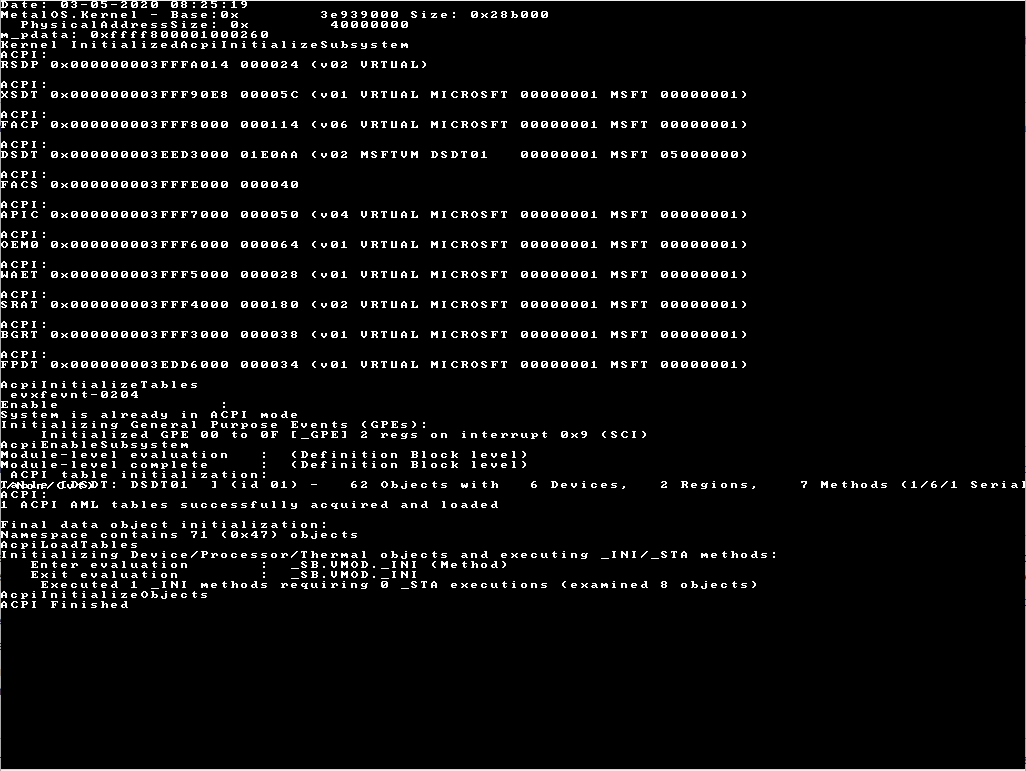
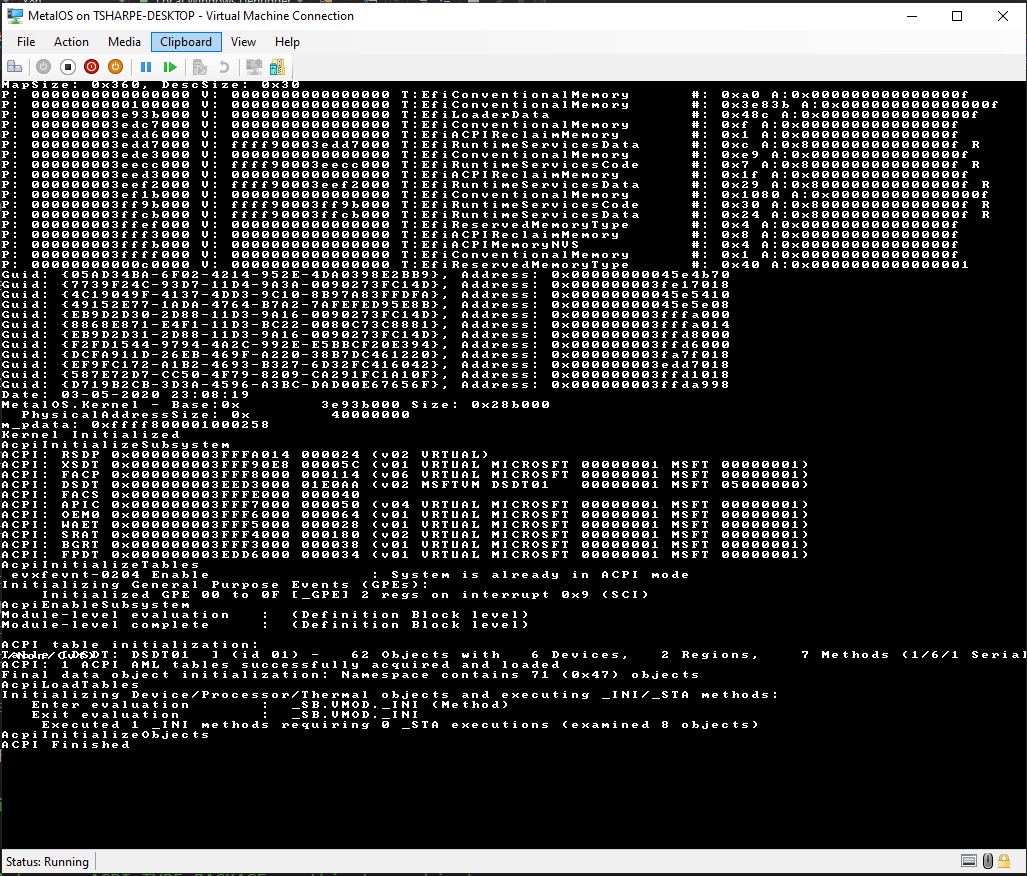
Fixed up printing

diff --git a/MetalOS.Kernel/Kernel.cpp b/MetalOS.Kernel/Kernel.cpp
@@ -49,11 +49,11 @@ void Kernel::Initialize(const PLOADER_PARAMS params)
 	m_pMemoryMap = new MemoryMap(params->MemoryMapSize, params->MemoryMapDescriptorSize, params->MemoryMapDescriptorVersion, params->MemoryMap);
 	m_pMemoryMap->ReclaimBootPages();
 	m_pMemoryMap->MergeConventionalPages();
-	//m_pMemoryMap->DumpMemoryMap();
+	m_pMemoryMap->DumpMemoryMap();
 
 	//Config Tables
 	m_pConfigTables = new ConfigTables(params->ConfigTables, params->ConfigTableSizes);
-	//m_pConfigTables->Dump();
+	m_pConfigTables->Dump();
 
 	//Initialize page table pool
 	m_pPagePool = new PageTablesPool(KernelPageTablesPoolAddress, params->PageTablesPoolAddress, params->PageTablesPoolPageCount);
@@ -94,9 +94,9 @@ void Kernel::Initialize(const PLOADER_PARAMS params)
 	//__debugbreak();
 	//__debugbreak();
 
-	Print("MetalOS.Kernel - Base:0x%16x Size: 0x%x", m_physicalAddress, m_imageSize);
+	Print("MetalOS.Kernel - Base:0x%16x Size: 0x%x\n", m_physicalAddress, m_imageSize);
 	//Print("ConfigTableSizes: %d", loader->ConfigTableSizes);
-	Print("  PhysicalAddressSize: 0x%16x", m_pMemoryMap->GetPhysicalAddressSize());
+	Print("  PhysicalAddressSize: 0x%16x\n", m_pMemoryMap->GetPhysicalAddressSize());
 	//Print("  PageTablesPool.AllocatedPageCount: 0x%8x", m_pPagePool->AllocatedPageCount());
 
 	//Complete initialization
@@ -104,24 +104,24 @@ void Kernel::Initialize(const PLOADER_PARAMS params)
 
 	m_pdata = GetKernelSection(".pdata");
 
-	Print("m_pdata: 0x%16x", (uintptr_t)m_pdata);
+	Print("m_pdata: 0x%16x\n", (uintptr_t)m_pdata);
 
-	m_pLoading->WriteText("Kernel Initialized");
+	Print("Kernel Initialized\n");
 }
 
 void Kernel::HandleInterrupt(size_t vector, PINTERRUPT_FRAME pFrame)
 {
 	__halt();
 	
-	m_pLoading->WriteLineFormat("ISR: %d, Code: %d, RBP: 0x%16x, RIP: 0x%16x, RSP: 0x%16x", vector, pFrame->ErrorCode, pFrame->RBP, pFrame->RIP, pFrame->RSP);
-	m_pLoading->WriteLineFormat("  RAX: 0x%16x, RBX: 0x%16x, RCX: 0x%16x, RDX: 0x%16x", pFrame->RAX, pFrame->RBX, pFrame->RCX, pFrame->RDX);
+	m_pLoading->WriteLine("ISR: %d, Code: %d, RBP: 0x%16x, RIP: 0x%16x, RSP: 0x%16x\n", vector, pFrame->ErrorCode, pFrame->RBP, pFrame->RIP, pFrame->RSP);
+	m_pLoading->WriteLine("  RAX: 0x%16x, RBX: 0x%16x, RCX: 0x%16x, RDX: 0x%16x\n", pFrame->RAX, pFrame->RBX, pFrame->RCX, pFrame->RDX);
 	switch (vector)
 	{
 	//Let debug continue (we use this to check ISRs on bootup)
 	case 3:
 		return;
 	case 14:
-		m_pLoading->WriteLineFormat("CR2: 0x%16x", __readcr2());
+		m_pLoading->WriteLine("CR2: 0x%16x\n", __readcr2());
 	}
 
 	//shitty stalk walk
@@ -148,13 +148,13 @@ void Kernel::Print(const char* format, ...)
 	va_list args;
 
 	va_start(args, format);
-	m_pLoading->WriteLineFormat(format, args);
+	m_pLoading->Write(format, args);
 	va_end(args);
 }
 
 void Kernel::Print(const char* format, va_list args)
 {
-	m_pLoading->WriteLineFormat(format, args);
+	m_pLoading->Write(format, args);
 }
 
 PIMAGE_SECTION_HEADER Kernel::GetKernelSection(const std::string& name)

diff --git a/MetalOS.Kernel/LoadingScreen.cpp b/MetalOS.Kernel/LoadingScreen.cpp
@@ -12,30 +12,44 @@ LoadingScreen::LoadingScreen(Display& display) : m_display(display), m_fontScale
 	m_position = { 0 };
 }
 
-void LoadingScreen::WriteLineFormat(const char* format, ...)
+void LoadingScreen::WriteLine(const char* format, ...)
 {
 	va_list args;
 
 	va_start(args, format);
-	this->WriteLineFormat(format, args);
+	this->WriteLine(format, args);
 	va_end(args);
 }
 
-void LoadingScreen::WriteLineFormat(const char* format, va_list args)
+void LoadingScreen::WriteLine(const char* format, va_list args)
 {
 	char buffer[255];
 
 	int retval = crt_vsprintf(buffer, format, args);
 	buffer[retval] = '\0';
 
-	WriteLine(buffer);
-}
-
-void LoadingScreen::WriteLine(const char* s)
-{
-	LoadingScreen::WriteText(s);
+	this->WriteText(buffer);
 	AdvanceY();
 	ResetX();
+}
+
+void LoadingScreen::Write(const char* format, ...)
+{
+	va_list args;
+
+	va_start(args, format);
+	this->Write(format, args);
+	va_end(args);
+}
+
+void LoadingScreen::Write(const char* format, va_list args)
+{
+	char buffer[255];
+
+	int retval = crt_vsprintf(buffer, format, args);
+	buffer[retval] = '\0';
+
+	this->WriteText(buffer);
 }
 
 void LoadingScreen::WriteText(const char* text)
@@ -44,8 +58,16 @@ void LoadingScreen::WriteText(const char* text)
 
 	while (*text != '\0')
 	{
-		WriteCharacter(*text);
-		AdvanceX();
+		if (*text == '\n')
+		{
+			AdvanceY();
+			ResetX();
+		}
+		else if (*text != '\r')
+		{
+			WriteCharacter(*text);
+			AdvanceX();
+		}
 
 		text++;
 	}

diff --git a/MetalOS.Kernel/Main.cpp b/MetalOS.Kernel/Main.cpp
@@ -100,7 +100,7 @@ void main(LOADER_PARAMS* loader)
 		Print("Could not AcpiInitializeSubsystem: %d\n", Status);
 		__halt();
 	}
-	Print("AcpiInitializeSubsystem");
+	Print("AcpiInitializeSubsystem\n");
 
 	Status = AcpiInitializeTables(nullptr, 0, FALSE);
 	if (ACPI_FAILURE(Status))
@@ -108,7 +108,7 @@ void main(LOADER_PARAMS* loader)
 		Print("Could not AcpiInitializeTables: %d\n", Status);
 		__halt();
 	}
-	Print("AcpiInitializeTables");
+	Print("AcpiInitializeTables\n");
 
 	//TODO: notify handlers
 
@@ -118,7 +118,7 @@ void main(LOADER_PARAMS* loader)
 		Print("Could not AcpiEnableSubsystem: %d\n", Status);
 		__halt();
 	}
-	Print("AcpiEnableSubsystem");
+	Print("AcpiEnableSubsystem\n");
 
 	Status = AcpiLoadTables();
 	if (ACPI_FAILURE(Status))
@@ -126,7 +126,7 @@ void main(LOADER_PARAMS* loader)
 		Print("Could not AcpiEnableSubsystem: %d\n", Status);
 		__halt();
 	}
-	Print("AcpiLoadTables");
+	Print("AcpiLoadTables\n");
 
 	Status = AcpiInitializeObjects(ACPI_FULL_INITIALIZATION);
 	if (ACPI_FAILURE(Status))
@@ -134,8 +134,8 @@ void main(LOADER_PARAMS* loader)
 		Print("Could not AcpiEnableSubsystem: %d\n", Status);
 		__halt();
 	}
-	Print("AcpiInitializeObjects");
-	Print("ACPI Finished");
+	Print("AcpiInitializeObjects\n");
+	Print("ACPI Finished\n");
 
 	//System system(loader->ConfigTables, loader->ConfigTableSizes);
 	//system.GetInstalledSystemRam();

diff --git a/MetalOS.Kernel/MemoryMap.cpp b/MetalOS.Kernel/MemoryMap.cpp
@@ -122,14 +122,14 @@ bool MemoryMap::AddressFree(EFI_PHYSICAL_ADDRESS address)
 
 void MemoryMap::DumpMemoryMap()
 {
-	Print("MapSize: 0x%x, DescSize: 0x%x", m_memoryMapSize, m_memoryMapDescriptorSize);
+	Print("MapSize: 0x%x, DescSize: 0x%x\n", m_memoryMapSize, m_memoryMapDescriptorSize);
 	EFI_MEMORY_DESCRIPTOR* current;
 	for (current = m_memoryMap;
 		current < NextMemoryDescriptor(m_memoryMap, m_memoryMapSize);
 		current = NextMemoryDescriptor(current, m_memoryMapDescriptorSize))
 	{
 		const bool runtime = (current->Attribute & EFI_MEMORY_RUNTIME) != 0;
-		Print("P: %016x V: %016x T:%s #: 0x%x A:0x%016x %c", current->PhysicalStart, current->VirtualStart, (*MemTypes)[current->Type], current->NumberOfPages, current->Attribute, runtime ? 'R' : ' ');
+		Print("P: %016x V: %016x T:%s #: 0x%x A:0x%016x %c\n", current->PhysicalStart, current->VirtualStart, (*MemTypes)[current->Type], current->NumberOfPages, current->Attribute, runtime ? 'R' : ' ');
 	}
 }
 

diff --git a/MetalOS.Kernel/LoadingScreen.h b/MetalOS.Kernel/LoadingScreen.h
@@ -8,10 +8,11 @@ class LoadingScreen
 public:
 	LoadingScreen(Display& display);
 
-	void WriteLineFormat(const char* format, ...);
-	void WriteLineFormat(const char* format, va_list args);
-	void WriteLine(const char* s);
-	void WriteText(const char* text);
+	void WriteLine(const char* format, ...);
+	void WriteLine(const char* format, va_list args);
+	void Write(const char* format, ...);
+	void Write(const char* format, va_list args);
+
 	void WriteCharacter(char c);
 
 	void AdvanceX();
@@ -20,6 +21,8 @@ public:
 	void ResetY();
 
 private:
+	void WriteText(const char* text);
+
 	const uint8_t m_fontScale;
 	static const Color m_white;
 	Point2D m_position;

diff --git a/MetalOS.Kernel/ConfigTables.cpp b/MetalOS.Kernel/ConfigTables.cpp
@@ -47,7 +47,7 @@ void ConfigTables::Dump()
 		const EFI_GUID guid = m_tables[i].VendorGuid;
 		const void* address = m_tables[i].VendorTable;
 
-		Print("Guid: {%08lX-%04hX-%04hX-%02hhX%02hhX-%02hhX%02hhX%02hhX%02hhX%02hhX%02hhX}, Address: 0x%016x",
+		Print("Guid: {%08lX-%04hX-%04hX-%02hhX%02hhX-%02hhX%02hhX%02hhX%02hhX%02hhX%02hhX}, Address: 0x%016x\n",
 			guid.Data1, guid.Data2, guid.Data3,
 			guid.Data4[0], guid.Data4[1], guid.Data4[2], guid.Data4[3],
 			guid.Data4[4], guid.Data4[5], guid.Data4[6], guid.Data4[7],
